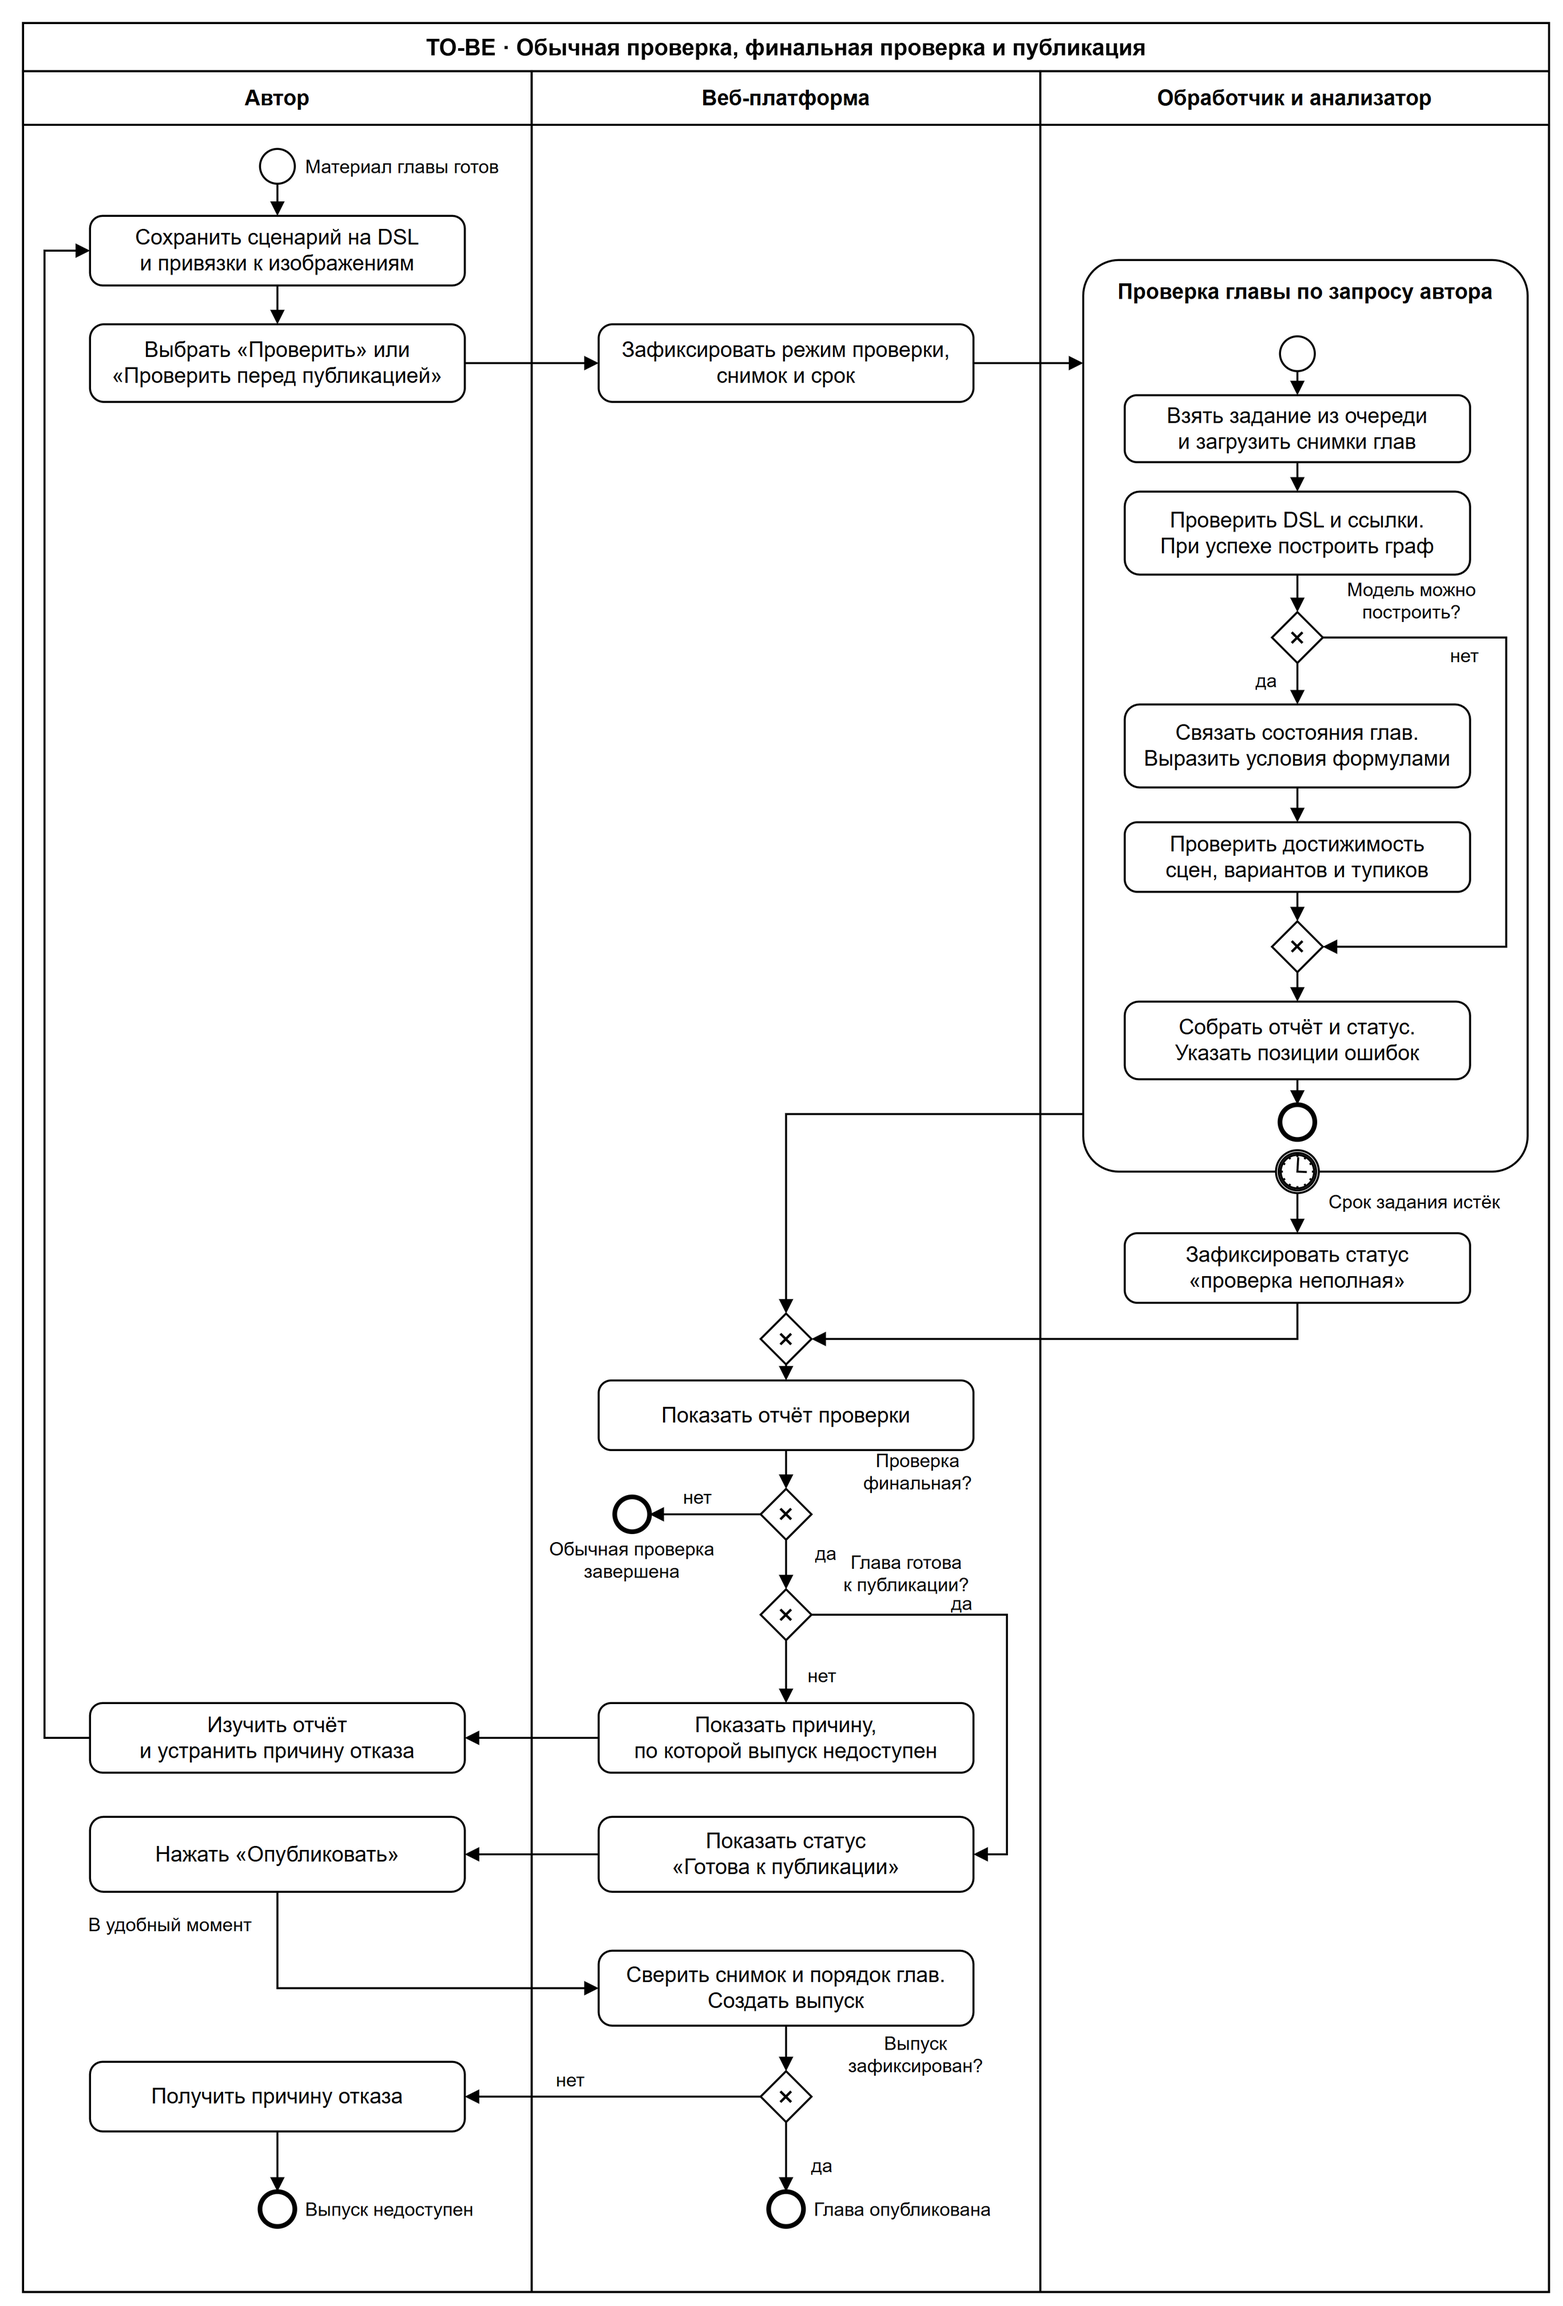
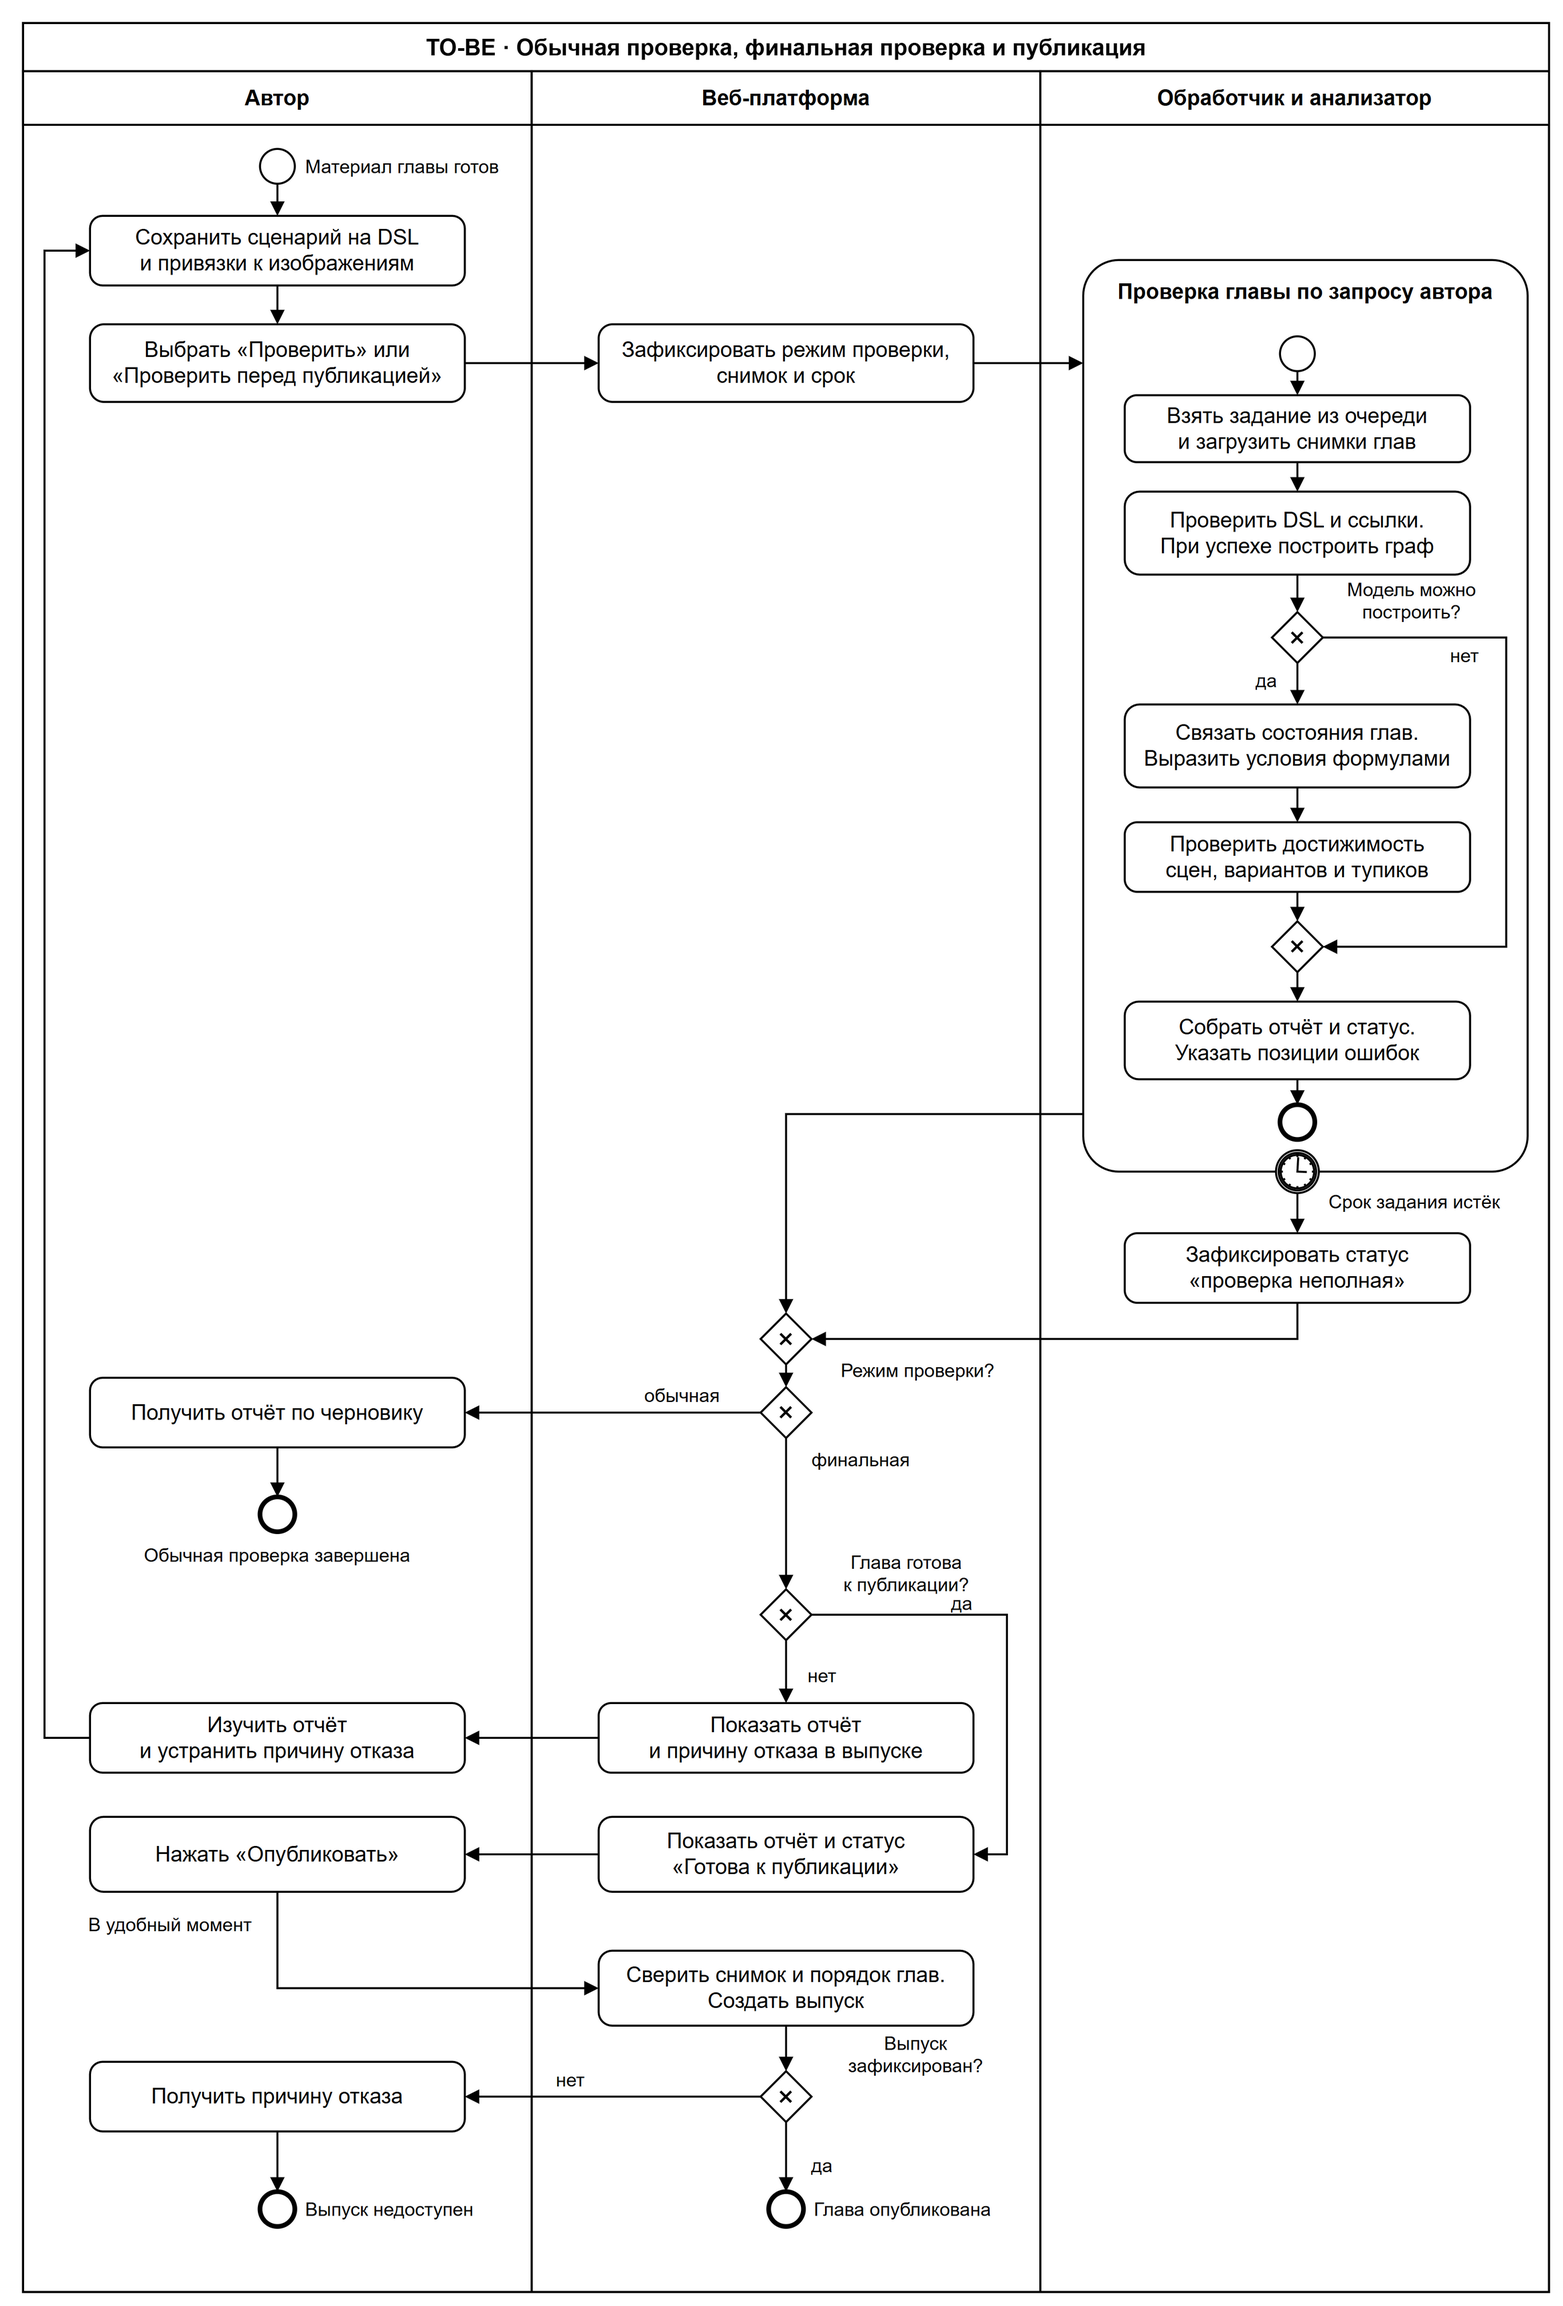
Показать получение отчёта автором на TO-BE

diff --git a/docs/design/report.md b/docs/design/report.md
@@ -188,7 +188,7 @@
 
 *Рисунок 6. Проверка межглавных условий и выпуск готовой главы по команде автора.*
 
-Автор выбирает обычную или финальную проверку. Анализатор разбирает сценарий, строит граф, связывает состояния между главами и проверяет достижимость и тупики. При ошибке разбора или запрещённом цикле он возвращает диагностику. Если истекает срок, граничный таймер прерывает подпроцесс, а платформа показывает статус «проверка неполная». Обычная проверка заканчивается выдачей отчёта (FR-03–FR-08, NFR-01, NFR-02).
+Автор выбирает обычную или финальную проверку. Анализатор разбирает сценарий, строит граф, связывает состояния между главами и проверяет достижимость и тупики. При ошибке разбора или запрещённом цикле он возвращает диагностику. Если истекает срок, граничный таймер прерывает подпроцесс, а платформа показывает статус «проверка неполная». В ветви обычной проверки автор получает отчёт по черновику, и на этом процесс завершается (FR-03–FR-08, NFR-01, NFR-02).
 
 После успешной финальной проверки очередной главы платформа показывает статус «Готова к публикации». Автор может оставить главу в этом статусе и вернуться позднее. Выпуск начинается по команде «Опубликовать». В этот момент платформа сверяет снимок и порядок глав. Для актуального снимка она использует сохранённый результат финальной проверки. При расхождении сообщает причину отказа, и автор запускает новую финальную проверку после устранения причины (FR-10, NFR-04).
 
